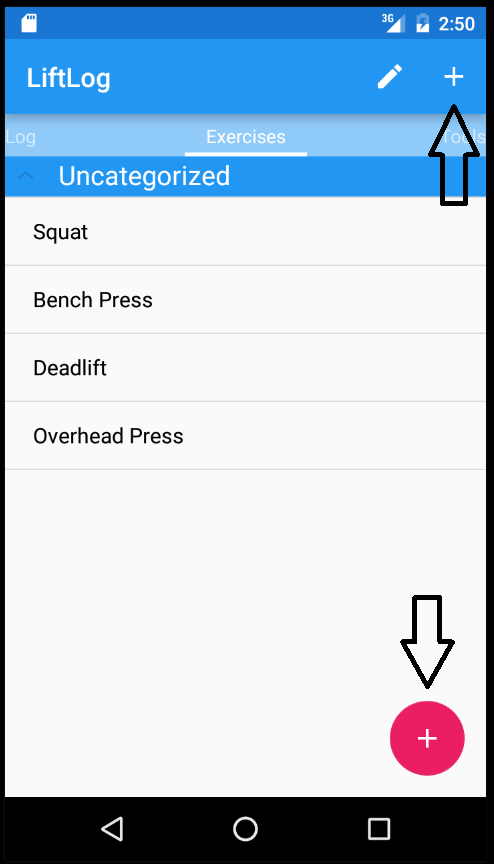
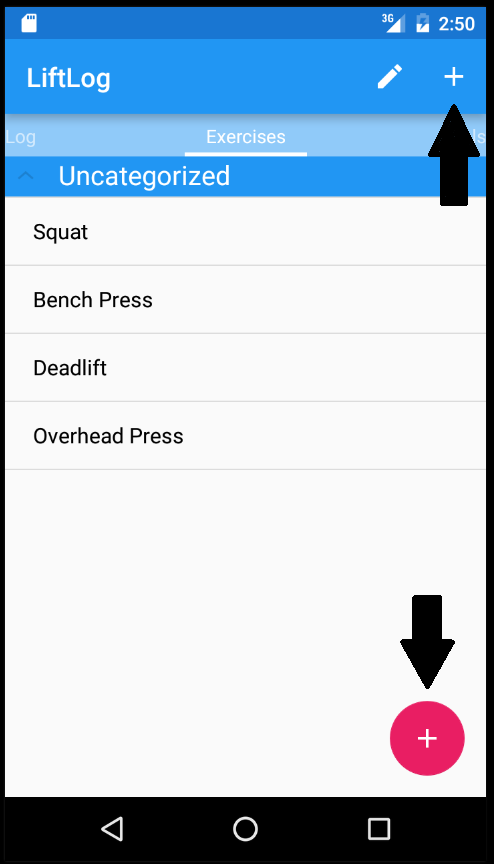
- fix view history tutorial image link - fix add session image arrow color

Changed region(s): [[0.8806, 0.125, 0.9717, 0.25], [0.8198, 0.6875, 0.9109, 0.7812]]

diff --git a/index.html b/index.html
@@ -71,7 +71,7 @@
 											A tool to view the complete history of a given exercise.
 											<ul>
 											<li>Navigate to it via the tools tab on the main screen. <a href="img/tutorial/view_history/0-full_view_history_tools.png">Example</a></li>
-											<li>Navigate to it via the Lift screen (it will show the history for the currently selected exercise) <a href="img/tutorial/view_history/1-full_view_history_viewlift.png">Example</a></li>
+											<li>Navigate to it via the Lift screen (it will show the history for the currently selected exercise) <a href="img/tutorial/view_history/0-full_view_history_viewlift.png">Example</a></li>
 											</ul>
 										</li>
 										<li>
